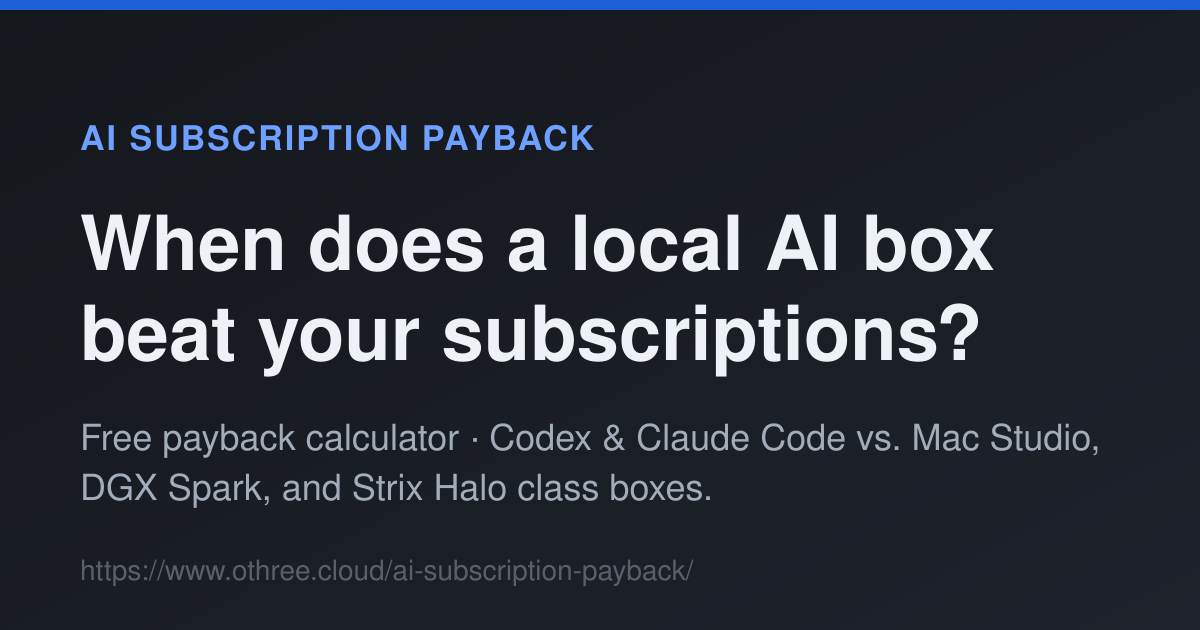
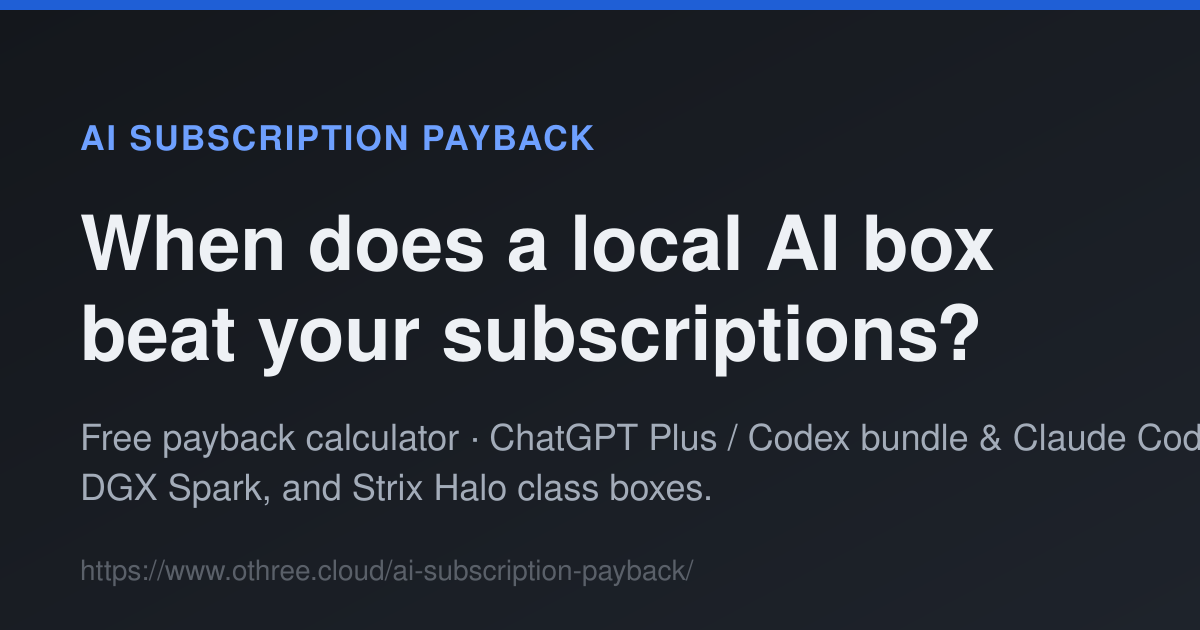
fix(seo): align homepage ChatGPT bundle wording

Changed region(s): [[0.4317, 0.6635, 1.0, 0.7238]]

diff --git a/index.html b/index.html
@@ -41,7 +41,7 @@
   <meta name="twitter:title" content="AI Subscription Payback Calculator | Local AI Box ROI" />
   <meta
     name="twitter:description"
-    content="Free calculator: how long until a local AI box is cheaper than paying for ChatGPT Go, ChatGPT Plus / Codex bundle, ChatGPT Pro, Codex, Claude Code, Google AI Plus, Google AI Pro, and Google AI Ultra, Replit Agent, Mistral, Bolt, Lovable, v0 by Vercel, Augment Code, Qodo, CodeRabbit, Amp, TRAE, Kiro, Supermaven, Warp, and Manus tiers?"
+    content="Free calculator: how long until a local AI box is cheaper than paying for ChatGPT Go, ChatGPT Plus / Codex bundle, ChatGPT Pro, Claude Code, Google AI Plus, Google AI Pro, and Google AI Ultra, Replit Agent, Mistral, Bolt, Lovable, v0 by Vercel, Augment Code, Qodo, CodeRabbit, Amp, TRAE, Kiro, Supermaven, Warp, and Manus tiers?"
   />
   <meta name="twitter:image" content="https://www.othree.cloud/ai-subscription-payback/assets/img/og-card.png" />
   <meta
@@ -64,7 +64,7 @@
         "applicationCategory": "FinanceApplication",
         "operatingSystem": "Any (modern web browser)",
         "browserRequirements": "Requires JavaScript",
-        "description": "Free calculator that estimates when a financed local AI inference box becomes cheaper than paying for AI coding and code-review subscriptions like ChatGPT Go, ChatGPT Plus / Codex bundle, ChatGPT Pro, Codex, Claude Code, Google AI Plus, Google AI Pro, and Google AI Ultra, Replit Agent, Mistral, Bolt, Lovable, v0 by Vercel, Augment Code, Qodo, CodeRabbit, Amp, TRAE, Kiro, Supermaven, Warp, and Manus.",
+        "description": "Free calculator that estimates when a financed local AI inference box becomes cheaper than paying for AI coding and code-review subscriptions like ChatGPT Go, ChatGPT Plus / Codex bundle, ChatGPT Pro, Claude Code, Google AI Plus, Google AI Pro, and Google AI Ultra, Replit Agent, Mistral, Bolt, Lovable, v0 by Vercel, Augment Code, Qodo, CodeRabbit, Amp, TRAE, Kiro, Supermaven, Warp, and Manus.",
         "isAccessibleForFree": true,
         "offers": {
           "@type": "Offer",
@@ -105,7 +105,7 @@
       </h1>
       <p class="hero-sub">
         Compare the total cost of a financed local inference box against monthly
-        AI coding subscriptions like Codex and Claude Code — and find the month
+        AI coding subscriptions like the ChatGPT Plus / Codex bundle and Claude Code — and find the month
         it pays for itself.
       </p>
       <p class="hero-cta">
@@ -451,8 +451,8 @@
           — where a Claude Code Max plan and an owned box cross on cost.
         </li>
         <li>
-          <a href="./guides/codex-vs-local-ai-box-cost.html">Codex vs a local AI box</a>
-          — the honest maths on whether a $20/mo Codex seat justifies hardware.
+          <a href="./guides/codex-vs-local-ai-box-cost.html">ChatGPT Plus / Codex bundle vs a local AI box</a>
+          — the honest maths on whether a $20/mo bundle justifies hardware.
         </li>
         <li>
           <a href="./guides/strix-halo-ryzen-ai-max-workstation.html">Strix Halo / Ryzen AI Max workstation</a>

diff --git a/test/homepage.test.js b/test/homepage.test.js
@@ -372,6 +372,14 @@ test("primary navigation targets exist as sections", () => {
   }
 });
 
+test("homepage launch copy consistently names the ChatGPT Plus / Codex bundle", () => {
+  assert.match(html, /ChatGPT Plus \/ Codex bundle and Claude Code/i, "hero names the bundle");
+  assert.match(html, /ChatGPT Plus \/ Codex bundle vs a local AI box/i, "guide link names the bundle");
+  assert.match(html, /\$20\/mo bundle justifies hardware/i, "guide link uses bundle wording");
+  assert.doesNotMatch(html, /like Codex and Claude Code/i, "hero has no standalone Codex wording");
+  assert.doesNotMatch(html, /Codex seat/i, "guide link has no standalone Codex seat wording");
+});
+
 test("subscription helper copy names the Google AI Plus, Google AI Pro, Google AI Ultra, GitLab, Devin, Replit, Mistral, Bolt, Lovable, v0 by Vercel, Augment Code, Qodo, CodeRabbit, Amp, TRAE, Kiro, Supermaven, JetBrains AI Pro, Tabnine, Warp, Factory, and Manus tiers", () => {
   // The checklist covers Google AI Plus / Pro / Ultra, GitLab
   // Premium + Duo Agent Platform credits, Devin, Replit Agent, the Bolt and

diff --git a/test/seo-metadata.test.js b/test/seo-metadata.test.js
@@ -152,6 +152,17 @@ test("Twitter card carries its own title, description, and image", () => {
   );
 });
 
+test("homepage social metadata does not present Codex as a standalone subscription", () => {
+  const descriptions = [
+    metaContent("property", "og:description"),
+    metaContent("name", "twitter:description"),
+    html.match(/"description":\s*"([^"]+)/i)?.[1] ?? "",
+  ];
+  for (const description of descriptions) {
+    assert.doesNotMatch(description, /ChatGPT Plus \/ Codex bundle, ChatGPT Pro, Codex, Claude Code/i);
+  }
+});
+
 test("the social-card asset exists", () => {
   assert.ok(exists("assets/img/og-card.png"), "assets/img/og-card.png is missing");
 });

diff --git a/docs/bdd/seo-and-metadata.md b/docs/bdd/seo-and-metadata.md
@@ -43,6 +43,12 @@ Scenario: The homepage metadata stays concise while social metadata stays comple
   And the keywords tag stays short and focused instead of listing every modeled vendor
   And the Open Graph description, Twitter description, and JSON-LD description still cover the broader modeled tier families, including the code-review comparator rows
 
+Scenario: Homepage launch copy names the ChatGPT bundle consistently
+  Given the homepage presents the calculator and its published comparison guides
+  When a visitor reads the hero, guide link, social metadata, or social-card artwork
+  Then the ChatGPT Plus / Codex bundle is named as a bundle
+  And no launch surface describes Codex as a standalone subscription or seat
+
 Scenario: The landing page declares a favicon and avoids a /favicon.ico 404
   Given the static site ships from a project subpath with no favicon at the origin root
   When a browser loads the landing page

diff --git a/docs/bdd/pricing-disclosure.md b/docs/bdd/pricing-disclosure.md
@@ -111,7 +111,7 @@ Scenario: Devin Teams pricing preserves the base-fee plus seat math
 Scenario: Editor-assistant and code-review tiers are optional and unchecked by default
   Given the subscriptions-to-compare list
   When the calculator loads with its default selection
-  Then only the Codex and Claude Code Pro (monthly) tiers are checked
+  Then only the ChatGPT Plus / Codex bundle and Claude Code Pro (monthly) tiers are checked
   And the GitHub Copilot, Cursor, xAI Grok, Zed, Google AI, Amazon Q Developer, Devin, Replit, Mistral, Bolt, Lovable, Augment Code, Qodo, CodeRabbit, Kiro, Supermaven, JetBrains AI, Tabnine, Warp, Factory, and Manus tiers are present but unchecked
   And checking one adds its monthly price to the comparison without changing the defaults on reload
 
